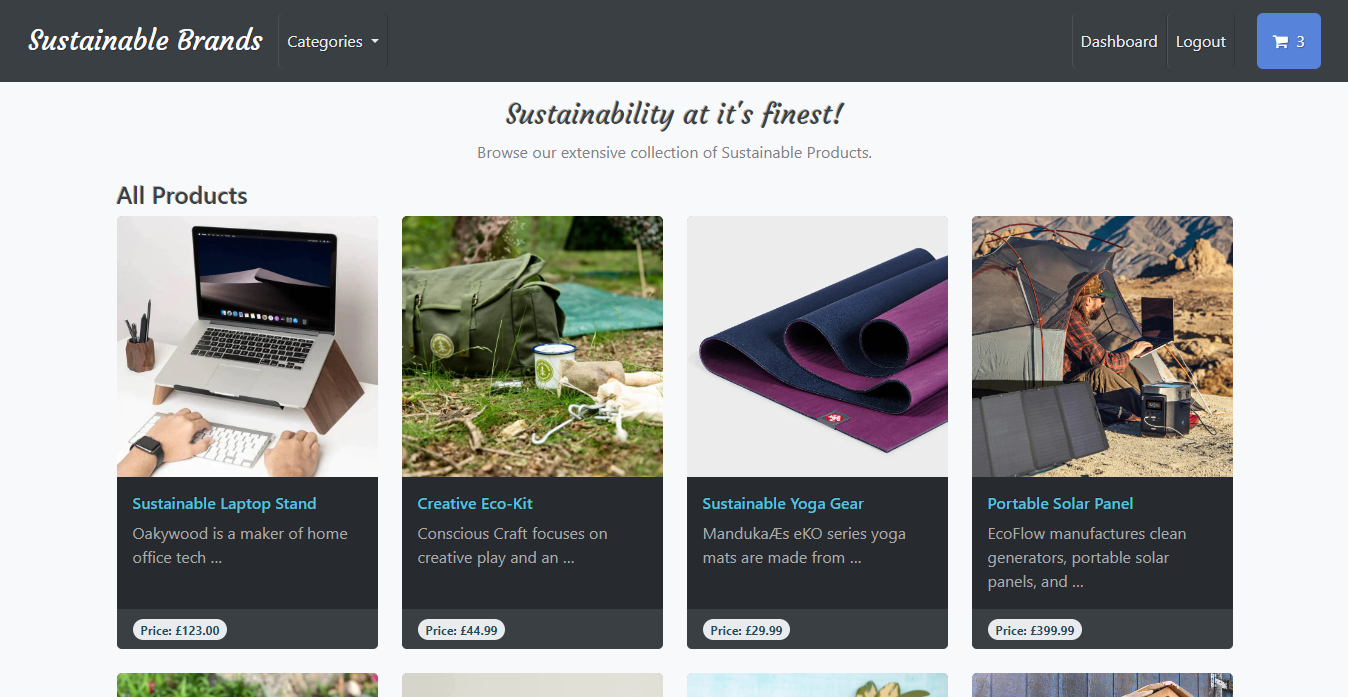
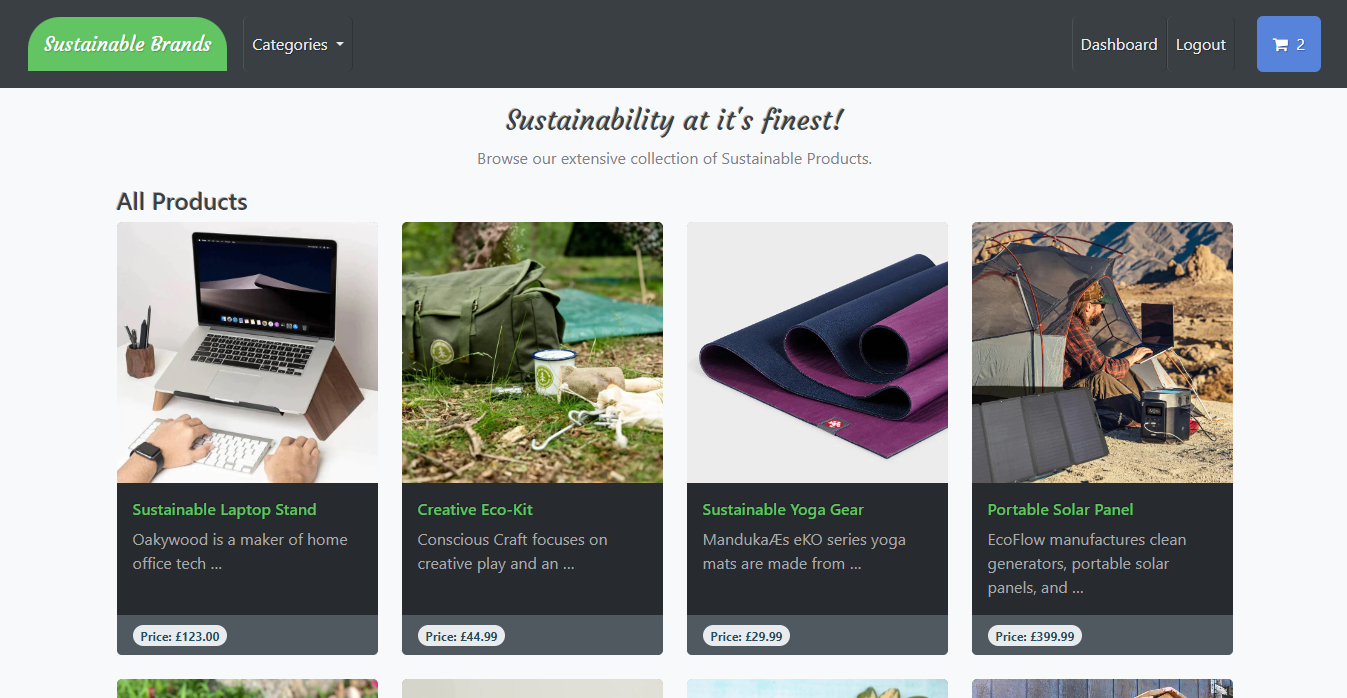
Improved cart summary

diff --git a/cart/templates/cart-summary.html b/cart/templates/cart-summary.html
@@ -3,11 +3,10 @@
 <main class="mt-4">
 	<div class="container w-75">
 		<h1 class="h5 mb-4 text-primary">Shopping cart</h1>
-		{% for item in cart %} 
-		{% with product=item.product %}
+		{% for item in cart %} {% with product=item.product %}
 		<div id="{{product.id}}" class="row mb-4 bg-body">
-			<div class="col-md-3 col-lg-2 order-md-first p-0">
-				<div class="d-flex align-middle bg-secondary-subtle h-100">
+			<div class="col-md-3 col-lg-2 col-xl-3 order-md-first p-0">
+				<div class="d-flex align-middle bg-body-tertiary h-100">
 					<img
 						class="img-fluid d-block"
 						alt="{{ product.title }}"
@@ -15,16 +14,21 @@
 					/>
 				</div>
 			</div>
-			<div class="col-md-9 col-lg-10 ps-md-3 ps-lg-10">
+			<div class="col-md-9 col-lg-10 col-xl-9 py-3 px-4">
 				<a
 					href="{{ product.get_absolute_url}}"
-					class="text-info-emphasis text-decoration-none"
+					class="text-decoration-none"
 				>
-					<h5 class="pt-4 text-info">{{ product.title }}</h5>
+					<h5 class="text-info">
+						{{ product.title }}
+						<span class="text-secondary">|</span>
+						<span class="h6 text-light">{{ product.brand }}</span>
+					</h5>
 				</a>
+				<div class="col">{{ product.description }}</div>
 				<div class="text-light">
 					<div class="col border-bottom border-secondary">
-						<div class="row p-2">
+						<div class="row py-2">
 							<div class="col-6">Unit price : --></div>
 							<div class="col-6 text-end">
 								<span>{{ product.price }}</span>
@@ -32,40 +36,34 @@
 						</div>
 					</div>
 					<div class="col border-bottom border-secondary">
-						<div class="row p-2">
+						<div class="row py-2">
 							<div class="col-6">Sub total : --></div>
 							<div class="col-6 text-end">
-								<span id="sub-total-{{ product.id }}">
-									{{ item.total }}
-								</span>
+								<span id="sub-total-{{ product.id }}"> {{ item.total }} </span>
 							</div>
 						</div>
 					</div>
 					<div class="col">
-						<div class="row p-2">
+						<div class="row pt-3">
 							<div class="col-6 update-cart">
 								<label for="select">Quantity: </label>
 								&nbsp;
-								<select id="select{{ product.id }}" class="border">
+								<select
+									id="select{{ product.id }}"
+									class="border"
+									onchange="updateCart('{{product.id}}')"
+								>
 									<option selected>{{item.quantity}}</option>
 									<option value="">1</option>
 									<option value="">2</option>
 									<option value="">3</option>
 									<option value="">4</option>
 								</select>
-								<button
-								type="button"
-								id="update-button"
-								class="btn btn-primary btn-sm update-button border-0"
-								onClick="updateCart('{{product.id}}')"
-								>
-									Update Quantity
-								</button>
 							</div>
 							<div class="col-6 text-end">
 								<button
 									data-index="{{ product.id }}"
-									class="btn btn-danger btn-sm delete-button border-0"
+									class="btn btn-danger delete-button border-0"
 									onClick="removeItem('{{product.id}}')"
 								>
 									Remove From Cart
@@ -76,8 +74,7 @@
 				</div>
 			</div>
 		</div>
-		{% endwith %} 
-		{% endfor %}
+		{% endwith %} {% endfor %}
 		<div class="col-12 text-end">
 			{% if cart.get_total_price > 0 %}
 			<div class="pb-5 text-primary">
@@ -85,17 +82,27 @@
 					<strong>Total price:&nbsp;&nbsp; £{{ cart.get_total_price }}</strong>
 				</div>
 				<div class="cart-summary-buttons">
-					<a href="{% url 'store' %}" class="btn btn-primary border-0">Continue Browsing</a>
-					<a type="button" class="btn text-right border-0 custom-bg text-white" href="{% url 'process-payment' %}">Proceed to Checkout &nbsp;
+					<a href="{% url 'store' %}" class="btn btn-primary border-0"
+						>Continue Browsing</a
+					>
+					<a
+						type="button"
+						class="btn text-right border-0 custom-bg text-white"
+						href="{% url 'process-payment' %}"
+						>Proceed to Checkout &nbsp;
 						<i class="fa fa-credit-card-alt" aria-hidden="true"></i
 					></a>
 				</div>
-				</div>
+			</div>
 			{% else %}
-				<div class="py-5">
-					<p class="text-secondary">You haven't added anything to your shopping cart yet.</p>
-					<a href="{% url 'store' %}" class="btn btn-primary border-0">Explore Our Products</a>
-				</div>
+			<div class="py-5">
+				<p class="text-secondary">
+					You haven't added anything to your shopping cart yet.
+				</p>
+				<a href="{% url 'store' %}" class="btn btn-primary border-0"
+					>Explore Our Products</a
+				>
+			</div>
 			{% endif %}
 		</div>
 	</div>

diff --git a/store/templates/store.html b/store/templates/store.html
@@ -42,10 +42,10 @@
 							alt="{{product.title}}"
 							/>
 						<div class="card-body bg-body">
-							<h6 class="card-title text-info">{{product.title}}</h6>
-							<p class="card-text text-info-subtle">{{product.description|truncatewords:8}}</p>
+							<h6 class="card-title text-success">{{product.title}}</h6>
+							<p class="card-text text-success-subtle">{{product.description|truncatewords:8}}</p>
 						</div>
-						<div class="card-footer border-0 bg-primary">
+						<div class="card-footer border-0">
       						<small class="text-info-emphasis badge bg-light rounded-pill">Price: {{product.price}}</small>
     					</div>
 					</div>

diff --git a/store/templates/category.html b/store/templates/category.html
@@ -8,9 +8,9 @@
 				<a href="{{ product.get_absolute_url }}">
 					<div class="card h-100 border-0">
 						<img src="{{product.image.url}}" class="card-img-top product__image" alt="{{product.title}}" />
-						<div class="card-body bg-light">
-							<h6 class="card-title text-info-emphasis">{{product.title}}</h6>
-							<p class="card-text text-secondary">
+						<div class="card-body bg-body">
+							<h6 class="card-title text-info">{{product.title}}</h6>
+							<p class="card-text text-info-subtle">
 								{{product.description|truncatewords:8}}
 							</p>
 						</div>

diff --git a/store/templates/base.html b/store/templates/base.html
@@ -22,9 +22,9 @@
 		<title>E-Commerce</title>
 	</head>
 	<body class="bg-body-tertiary">
-		<nav class="navbar navbar-expand-lg bg-primary py-2 border-0" data-bs-theme="dark">
+		<nav class="navbar navbar-expand-lg bg-primary py-3 border-0" data-bs-theme="dark">
 			<div class="container-fluid"> 
-				<a class="navbar-brand custom-font fs-3 border-0" href="{% url 'store' %}">
+				<a class="navbar-brand custom-font border-0 bg-success rounded-top-5 mx-3" href="{% url 'store' %}">
 					Sustainable Brands
 				</a>
 				<a

diff --git a/store/templates/product-info.html b/store/templates/product-info.html
@@ -11,7 +11,7 @@
 			</div>
 			<div class="col-md-8 col-lg-8 col-xl-8 h-100 p-3">
 				<div class="border-bottom border-dark-subtle">
-					<h4 class="text-info">{{ product.title}}</h4>
+					<h4 class="text-success">{{ product.title}}</h4>
 					<strong class="">{{ product.brand }}</strong>
 				</div>
 				<p class="pt-3 text-light">{{ product.description }}</p>
